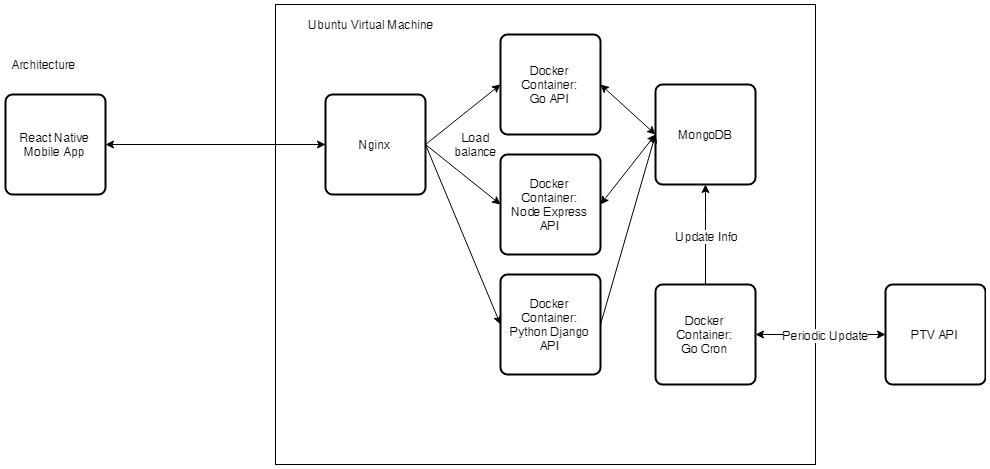
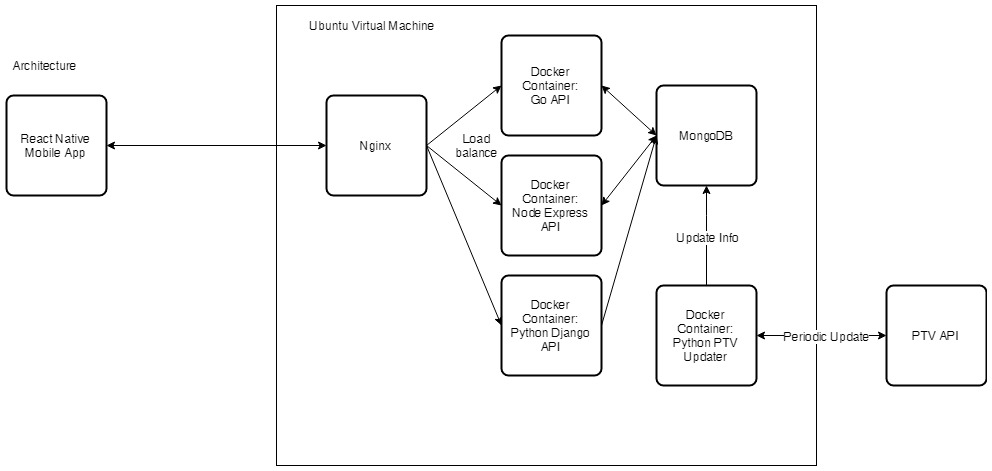
added readme

diff --git a/src/app.ts b/src/app.ts
@@ -11,4 +11,4 @@ app.use(trainRoutes);
 
 mongoConnect(() => {
     app.listen(8080);
-})
+});

diff --git a/README.md b/README.md
@@ -12,15 +12,22 @@ The REST API for this app is load-balanced using Nginx to 3 API developed in dif
 
 ![architecture](assets/architecture.jpg)
 
+## App Components
 
-## Mobile App
+### Mobile App
 
-The mobile app is built using React Native and is available in a separate repo
+The mobile app is built using React Native and is available at
 
 https://github.com/albertsundjaja/vic_train_react_native
 
 ![mobile_app_wireframe](assets/mobile_app_wireframe.jpg)
 
-## Node REST API
+### Node REST API
 
 This repo contains the code for the Node REST API built with Express and MongoDB as the data storage.
+
+### Python PTV Updater
+
+The periodic updater in Python is available at
+
+https://github.com/albertsundjaja/vic_train_ptv_updater_python
